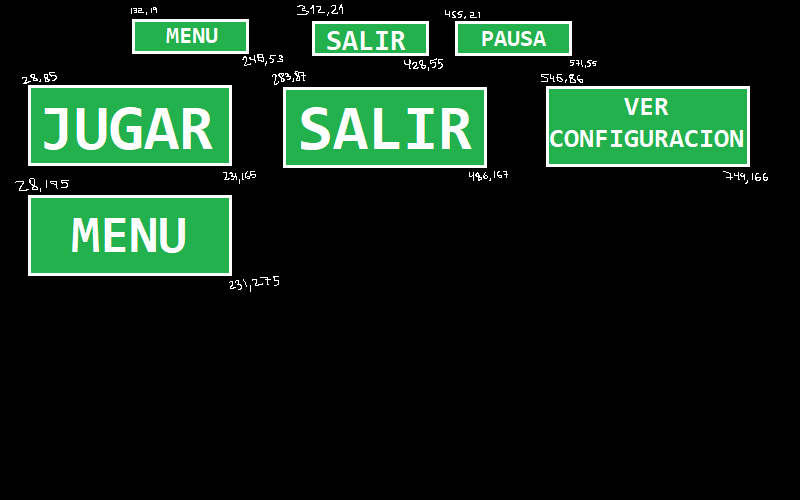
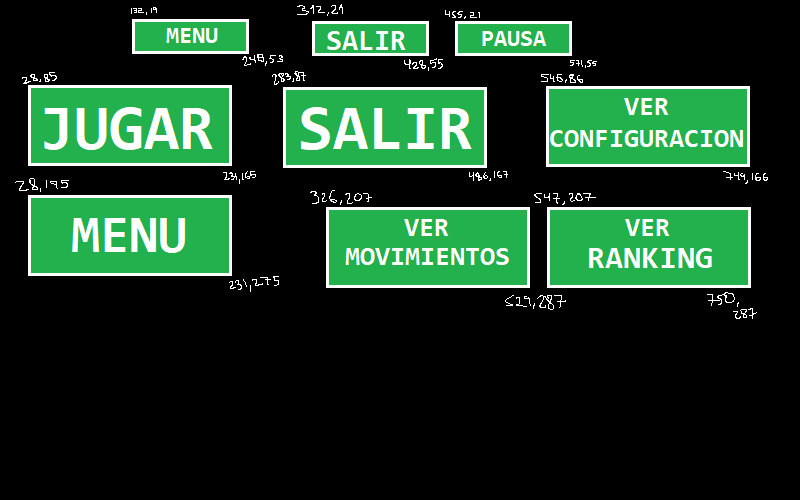
Visualizacion de vidas, puntuaciones, listado de movimientos, rankings y configs

Changed region(s): [[0.4062, 0.39, 0.9375, 0.63]]

diff --git a/Cliente/secciones/secciones.c b/Cliente/secciones/secciones.c
@@ -8,8 +8,17 @@ typedef struct {
     GHP_TexturesData* tex;
 } tCTex;
 
+typedef struct {
+    int ult_linea;
+    int regs_en_ult_linea;
+    GHP_TexturesData* tex;
+    SDL_Renderer* renderer;
+} ctxImpReg;
+
 bool buscarYCrearJugador (SOCKET sock, unsigned* id);
 bool _procesarNombre(tContextoGlobal* cGlobal);
+void _cargarTexsConfigs(tContextoGlobal* cGlobal, SDL_Renderer* renderer, GHP_TexturesData* tex);
+void _mostrarMovListaSDL(void* elemLista, void* infoExtra);
 
 void impRankCompleto(void* elem, void* extra) {
     RankingCompleto* ranking = (RankingCompleto*) elem;
@@ -29,7 +38,7 @@ void impRankCompleto(void* elem, void* extra) {
 
     ctx->cGlobal->cantRankings++;
 
-    printf("%d\n", ctx->cGlobal->salteoRankings);
+    //printf("%d\n", ctx->cGlobal->salteoRankings);
     printf("%d\t%s\t%d\n", ranking->idJugador, ranking->nombre, ranking->puntTotal);
 }
 
@@ -56,6 +65,7 @@ void initMenu (tContextoGlobal* cGlobal, SDL_Renderer* renderer, GHP_TexturesDat
     GHP_renderButton(renderer, &tex->buttons[BUT_JUGAR_GRANDE_A_NOMBRE], (WIDTH-(231-28))/2 , HEIGHT*0.2);
     GHP_renderButton(renderer, &tex->buttons[BUT_SALIR_GRANDE], (WIDTH-(231-28))/2 , HEIGHT*0.4);
     GHP_renderButton(renderer, &tex->buttons[BUT_VERCONFIG_GRANDE], (WIDTH-(231-28))/2 , HEIGHT*0.6);
+    GHP_renderButton(renderer, &tex->buttons[BUT_VERRANKING_GRANDE], (WIDTH-(231-28))/2 , HEIGHT*0.8);
 }
 
 void handlerMenu (tContextoGlobal* cGlobal, SDL_Renderer* renderer, GHP_TexturesData* tex, SDL_Event* event) {
@@ -362,6 +372,7 @@ void renderJuegoCorriendo (tContextoGlobal* cGlobal, SDL_Renderer* renderer, GHP
 
     if (!partida -> pausado) {
         system("cls");
+        GHP_renderBG(renderer,tex,WIDTH,HEIGHT);
 
         printf("=======================\n");
         printf("Vidas: %d\n", partida -> vidasRestantes);
@@ -374,8 +385,14 @@ void renderJuegoCorriendo (tContextoGlobal* cGlobal, SDL_Renderer* renderer, GHP
         mostrarMapa(&partida -> mapa);
         actualizarMapaRender(renderer, &partida->mapa, tex, tex->active_mesh);
 
-        // De vuelta porque sino queda como si estuviera pausado.
         GHP_renderButton(renderer, &tex->buttons[BUT_PAUSA_CHICO], WIDTH*0.41, HEIGHT*0.01);
+        GHP_renderButton(renderer, &tex->buttons[BUT_MENU_CHICO], WIDTH*0.21, HEIGHT*0.01);
+        GHP_renderButton(renderer, &tex->buttons[BUT_SALIR_CHICO], WIDTH*0.61, HEIGHT*0.01);
+
+        sprintf(tex->texts[TEXT_VIDAS].text, "Vidas: %d", cGlobal->partida.vidasRestantes);
+        sprintf(tex->texts[TEXT_PUNTUACION].text, "Puntuacion: %d", cGlobal->partida.puntuacion);
+        GHP_renderText(renderer, tex, TEXT_VIDAS, 20, WHITE_COLOR, 5, 5);
+        GHP_renderText(renderer, tex, TEXT_PUNTUACION, 20, WHITE_COLOR, 610, 5);
 
     } else {
         // agrisando el boton de pausa y el tablero
@@ -399,11 +416,12 @@ void initDerrota (tContextoGlobal* cGlobal, SDL_Renderer* renderer, GHP_Textures
 
     GHP_renderBG(renderer, tex, WIDTH, HEIGHT);
     GHP_renderButton(renderer, &tex->buttons[BUT_MENU_GRANDE], (WIDTH-(231-28))/2 , HEIGHT*0.2);
+    GHP_renderButton(renderer, &tex->buttons[BUT_VERMOVIMIENTOS_GRANDE], (WIDTH-(231-28))/2 , HEIGHT*0.4);
     // Mostrar registro de movmientos.
 }
 
 void handlerDerrota(tContextoGlobal* cGlobal, SDL_Renderer* renderer, GHP_TexturesData* tex, SDL_Event* event) {
-    GHP_Button botonesActivos[] = {tex->buttons[BUT_MENU_GRANDE]};
+    GHP_Button botonesActivos[] = {tex->buttons[BUT_MENU_GRANDE], tex->buttons[BUT_VERMOVIMIENTOS_GRANDE]};
 
     switch (event -> key.keysym.sym) {
         case SDLK_ESCAPE:
@@ -414,7 +432,10 @@ void handlerDerrota(tContextoGlobal* cGlobal, SDL_Renderer* renderer, GHP_Textur
             break;
     }
 
-    handleButtonsClick(botonesActivos, 1, &(cGlobal -> partida), &(cGlobal -> seccion), event);
+    handleButtonsClick(botonesActivos, 2, &(cGlobal -> partida), &(cGlobal -> seccion), event);
+
+    if (cGlobal->seccion != SECCION_DERROTA && cGlobal->seccion != SECCION_VERMOVS)
+        vaciarLista(&cGlobal->partida.regMovs);
 }
 
 void initVictoria (tContextoGlobal* cGlobal, SDL_Renderer* renderer, GHP_TexturesData* tex) {
@@ -430,11 +451,12 @@ void initVictoria (tContextoGlobal* cGlobal, SDL_Renderer* renderer, GHP_Texture
 
     GHP_renderBG(renderer, tex, WIDTH, HEIGHT);
     GHP_renderButton(renderer, &tex->buttons[BUT_MENU_GRANDE], (WIDTH-(231-28))/2 , HEIGHT*0.2);
+    GHP_renderButton(renderer, &tex->buttons[BUT_VERMOVIMIENTOS_GRANDE], (WIDTH-(231-28))/2 , HEIGHT*0.4);
     // Mostrar registro de movmientos.
 }
 
 void handlerVictoria(tContextoGlobal* cGlobal, SDL_Renderer* renderer, GHP_TexturesData* tex, SDL_Event* event) {
-    GHP_Button botonesActivos[] = {tex->buttons[BUT_MENU_GRANDE]};
+    GHP_Button botonesActivos[] = {tex->buttons[BUT_MENU_GRANDE], tex->buttons[BUT_VERMOVIMIENTOS_GRANDE]};
 
     switch (event -> key.keysym.sym) {
         case SDLK_ESCAPE:
@@ -445,7 +467,10 @@ void handlerVictoria(tContextoGlobal* cGlobal, SDL_Renderer* renderer, GHP_Textu
             break;
     }
 
-    handleButtonsClick(botonesActivos, 1, &(cGlobal -> partida), &(cGlobal -> seccion), event);
+    handleButtonsClick(botonesActivos, 2, &(cGlobal -> partida), &(cGlobal -> seccion), event);
+
+    if (cGlobal->seccion != SECCION_VICTORIA && cGlobal->seccion != SECCION_VERMOVS)
+        vaciarLista(&cGlobal->partida.regMovs);
 }
 
 void initVerRankings(tContextoGlobal* cGlobal, SDL_Renderer* renderer, GHP_TexturesData* tex) {
@@ -493,6 +518,9 @@ void initVerRankings(tContextoGlobal* cGlobal, SDL_Renderer* renderer, GHP_Textu
     for (int i = INICIO_TEXTOS_RANKINGS; i < LIMITE_RANKINGS + INICIO_TEXTOS_RANKINGS; i++) {
         GHP_updateTextTexture(renderer, tex, i, 30, BLACK_COLOR); // actualizar cada texture correctamente
     }
+
+    strcpy(tex->texts[TEXT_PRESIONEENTER].text,"[Presione enter para ver siguiente pagina]");
+    GHP_updateTextTexture(renderer, tex, TEXT_PRESIONEENTER, 30, WHITE_COLOR);
 }
 
 void handlerVerRankings(tContextoGlobal* cGlobal, SDL_Renderer* renderer, GHP_TexturesData* tex, SDL_Event* event) {
@@ -566,8 +594,15 @@ void renderVerRankings(tContextoGlobal* cGlobal, SDL_Renderer* renderer, GHP_Tex
     GHP_renderBG(renderer, tex, WIDTH, HEIGHT);
 
     for (int i = INICIO_TEXTOS_RANKINGS; i < LIMITE_RANKINGS + INICIO_TEXTOS_RANKINGS; i++) {
-        GHP_renderTexture(renderer, tex->texts[i].tex, 52, HEIGHT * (i - INICIO_TEXTOS_RANKINGS) * 0.1);
+        GHP_renderTexture(renderer, tex->texts[i].tex, 52, HEIGHT * (i - INICIO_TEXTOS_RANKINGS) * 0.1 + 52);
     }
+
+    if (strcmp(tex->texts[INICIO_TEXTOS_RANKINGS].text, "Fin del ranking") == 0) {
+        strcpy(tex->texts[TEXT_PRESIONEENTER].text,"[Presione enter para volver al menu]");
+        GHP_updateTextTexture(renderer, tex, TEXT_PRESIONEENTER, 30, WHITE_COLOR);
+    }
+
+    GHP_renderTexture(renderer, tex->texts[TEXT_PRESIONEENTER].tex, 52, HEIGHT - 75);
 }
 
 void initVerConfigs(tContextoGlobal* cGlobal, SDL_Renderer* renderer, GHP_TexturesData* tex) {
@@ -575,8 +610,14 @@ void initVerConfigs(tContextoGlobal* cGlobal, SDL_Renderer* renderer, GHP_Textur
     mostrarConfigs(&(cGlobal -> configData));
     printf("\nPresione enter para volver al menu...");
 
+    _cargarTexsConfigs(cGlobal, renderer, tex);
+
     GHP_renderBG(renderer, tex, WIDTH, HEIGHT);
-    GHP_renderButton(renderer, &tex->buttons[BUT_MENU_GRANDE], (WIDTH-(231-28))/2 , HEIGHT*0.2);
+    GHP_renderButton(renderer, &tex->buttons[BUT_MENU_GRANDE], (WIDTH-(231-28))/2 , HEIGHT*0.8);
+
+    for (int i=0; i<CANT_CONFIGS; i++) {
+        GHP_renderTexture(renderer, tex->texts[i].tex, 52, HEIGHT * (i - INICIO_TEXTOS_CONFIGS) * 0.1 + 20);
+    }
 }
 
 void handlerVerConfigs(tContextoGlobal* cGlobal, SDL_Renderer* renderer, GHP_TexturesData* tex, SDL_Event* event) {
@@ -588,7 +629,7 @@ void handlerVerConfigs(tContextoGlobal* cGlobal, SDL_Renderer* renderer, GHP_Tex
                 cGlobal -> seccion = SECCION_MENU;
                 break;
             case SDLK_ESCAPE:
-                cGlobal -> seccion = SECCION_SALIR_DIRECTO;
+                cGlobal -> seccion = SECCION_MENU;
                 break;
         }
     }
@@ -611,6 +652,39 @@ void handleButtonsClick(GHP_Button* botones, int cantidad, Partida* partida, int
     }
 }
 
+void initVerMovs(tContextoGlobal* cGlobal, SDL_Renderer* renderer, GHP_TexturesData* tex) {
+    ctxImpReg lineasImpresas = {0,0, tex, renderer};
+
+    for (int i=0; i<CANT_LINEAS_MOVS; i++)
+        tex->texts[i-INICIO_TEXTOS_MOVS].text[0] = '\0';
+
+    recorrerListaConInfoExtra(&cGlobal->partida.regMovs, _mostrarMovListaSDL, &lineasImpresas);
+
+    GHP_renderBG(renderer, tex, WIDTH, HEIGHT);
+    for (int i=0; i<CANT_LINEAS_MOVS; i++)
+        GHP_renderTexture(renderer, tex->texts[i].tex, 52, HEIGHT * 0.05 * (i - INICIO_TEXTOS_CONFIGS) + 10);
+
+    GHP_renderButton(renderer, &tex->buttons[BUT_MENU_GRANDE], (WIDTH-(231-28))/2 , HEIGHT*0.7);
+}
+
+void handlerVerMovs(tContextoGlobal* cGlobal, SDL_Renderer* renderer, GHP_TexturesData* tex, SDL_Event* event) {
+    GHP_Button botonesActivos[] = {tex->buttons[BUT_MENU_GRANDE]};
+
+    switch (event -> key.keysym.sym) {
+        case SDLK_ESCAPE:
+            cGlobal -> seccion = SECCION_MENU;
+            break;
+        case SDLK_RETURN:
+            cGlobal -> seccion = SECCION_MENU;
+            break;
+    }
+
+    handleButtonsClick(botonesActivos, 1, &(cGlobal -> partida), &(cGlobal -> seccion), event);
+
+    if (cGlobal->seccion != SECCION_VERMOVS)
+        vaciarLista(&cGlobal->partida.regMovs);
+}
+
 void _procesarFinPartida(Partida* partida, SOCKET socket, unsigned idJugador) {
 
     unsigned idPartida, cMovs = 0;
@@ -620,7 +694,6 @@ void _procesarFinPartida(Partida* partida, SOCKET socket, unsigned idJugador) {
 
     mostrarLista(&partida -> regMovs, mostrarCoordenada);
     reducirLista(&partida -> regMovs, contarMovs, &cMovs);
-    vaciarLista(&partida -> regMovs);
 
     // Una vez finaliza la partida, si puede, la guarda en el servidor.
     if (socket != INVALID_SOCKET) {
@@ -726,3 +799,35 @@ bool buscarYCrearJugador (SOCKET sock, unsigned* id) {
 
     return !err;
 }
+
+void _cargarTexsConfigs(tContextoGlobal* cGlobal, SDL_Renderer* renderer, GHP_TexturesData* tex) {
+    char configsNombres[CANT_CONFIGS][100] = {"filas", "columnas", "vidas_inicio", "maximo_numero_fantasmas", "maximo_numero_premios", "maximo_vidas_extra"};
+    float* configsValores[] = {&cGlobal->configData.filas, &cGlobal->configData.columnas, &cGlobal->configData.vidas_inicio,
+        &cGlobal->configData.maximo_numero_fantasmas, &cGlobal->configData.maximo_numero_premios, &cGlobal->configData.maximo_vidas_extra};
+    for (int i=0; i<CANT_CONFIGS; i++) {
+        sprintf(tex->texts[i - INICIO_TEXTOS_CONFIGS].text, "%s: %.0f", configsNombres[i], *(configsValores[i]));
+        GHP_updateTextTexture(renderer, tex, i, 30, BLACK_COLOR);
+    }
+}
+
+void _mostrarMovListaSDL(void* elemLista, void* infoExtra) {
+    ctxImpReg* info = (ctxImpReg*)infoExtra;
+    Coordenada* coord = (Coordenada*)elemLista;
+    char* texto;
+    char textoAAgregar[10] = "";
+
+    if (info->regs_en_ult_linea >= 10) {
+        if (info->ult_linea <= 10) {
+            info->ult_linea++;
+            info->regs_en_ult_linea=0;
+        }
+        else
+            return;
+    }
+    texto = info->tex->texts[info->ult_linea].text;
+    sprintf(textoAAgregar, "(%d,%d) ", coord->x, coord->y);
+    strcat(texto, textoAAgregar);
+    GHP_updateTextTexture(info->renderer, info->tex, info->ult_linea - INICIO_TEXTOS_MOVS, 20, BLACK_COLOR);
+    info->regs_en_ult_linea++;
+}
+

diff --git a/Cliente/inicios/inicios.c b/Cliente/inicios/inicios.c
@@ -71,6 +71,8 @@ int iniciarBotones(SDL_Renderer* renderer, GHP_TexturesData* texData) {
     GHP_newButtonAbs(renderer, RUTA_BOTONES, texData, &texData->buttons[BUT_VERCONFIG_GRANDE], 546, 86, 749, 166, setSeccionConfigs);
     GHP_newButtonAbs(renderer, RUTA_BOTONES, texData, &texData->buttons[BUT_MENU_GRANDE], 28, 195, 231, 275, setSeccionMenu);
     GHP_newButtonAbs(renderer, RUTA_BOTONES, texData, &texData->buttons[BUT_JUGAR_GRANDE_A_NOMBRE], 28, 85, 231, 165, setSeccionIngresoNombre);
+    GHP_newButtonAbs(renderer, RUTA_BOTONES, texData, &texData->buttons[BUT_VERRANKING_GRANDE], 547, 207, 750, 287, setSeccionVerRankings);
+    GHP_newButtonAbs(renderer, RUTA_BOTONES, texData, &texData->buttons[BUT_VERMOVIMIENTOS_GRANDE], 326, 207, 529, 287, setSeccionVerMovs);
 
     for(int i=0; i<AMMOUNT_BUTTONS; i++) {
         if (! (texData->buttons + i)->tex ) {
@@ -107,3 +109,5 @@ void setPausa(void* dataJuego, int* seccion) {((Partida*)dataJuego)->pausado = !
 void setSeccionJugar(void* dataJuego, int* seccion) {*seccion = SECCION_PARTIDA;}
 void setSeccionConfigs(void* dataJuego, int* seccion) {*seccion = SECCION_CONFIGS;}
 void setSeccionIngresoNombre(void* dataJuego, int* seccion) {*seccion = SECCION_INGRESO_NOMBRE;}
+void setSeccionVerRankings(void* dataJuego, int* seccion) {*seccion = SECCION_RANKINGS;}
+void setSeccionVerMovs(void* dataJuego, int* seccion) {*seccion = SECCION_VERMOVS;}

diff --git a/Cliente/constants.h b/Cliente/constants.h
@@ -72,10 +72,11 @@
 #define SECCION_VICTORIA 5
 #define SECCION_RANKINGS 6
 #define SECCION_CONFIGS 7
+#define SECCION_VERMOVS 8
 #define SECCION_SALIR_DIRECTO -1
 
 // Rankings
-#define LIMITE_RANKINGS 2
+#define LIMITE_RANKINGS 5
 
 // Texturas - General
 #define AMMOUNT_ASSETS 1
@@ -98,19 +99,25 @@
 #define BUT_VERCONFIG_GRANDE 5
 #define BUT_MENU_GRANDE 6
 #define BUT_JUGAR_GRANDE_A_NOMBRE 7
-#define AMMOUNT_BUTTONS 8
+#define BUT_VERRANKING_GRANDE 8
+#define BUT_VERMOVIMIENTOS_GRANDE 9
+#define AMMOUNT_BUTTONS 10
 // Texturas - Textos
-#define TEXT_ENTRADANOMBREJUGADOR 0
-#define TEXT_ERR_NOMBRE_JUGADOR 1
-
-#define INICIO_TEXTOS_RANKINGS 2
-
-// ranking tops quedan reservados numeros 1-20
-// rango de reserva?
-
-#define TEXT_RANKING_CABECERA 21
-#define TEXT_ENTRADANOMBREMENSAJE 22
-#define AMMOUNT_TEXTS 23
+// constantes 0-10 quedan reservadas para propositos generales
+#define TEXT_ENTRADANOMBREJUGADOR 11
+#define TEXT_ERR_NOMBRE_JUGADOR 12
+#define TEXT_RANKING_CABECERA 13
+#define TEXT_ENTRADANOMBREMENSAJE 14
+#define AMMOUNT_TEXTS 15
+// propositos generales renombrados para particulares
+#define INICIO_TEXTOS_RANKINGS 0
+#define TEXT_PRESIONEENTER LIMITE_RANKINGS
+#define INICIO_TEXTOS_CONFIGS 0
+#define CANT_CONFIGS 6
+#define INICIO_TEXTOS_MOVS 0
+#define CANT_LINEAS_MOVS 10
+#define TEXT_VIDAS 0
+#define TEXT_PUNTUACION 1
 
 // Valores de retorno
 #define NO_ESTABLECIDO -1

diff --git a/Cliente/secciones/secciones.h b/Cliente/secciones/secciones.h
@@ -59,6 +59,9 @@ void renderVerRankings(tContextoGlobal* cGlobal, SDL_Renderer* renderer, GHP_Tex
 void initVerConfigs(tContextoGlobal* cGlobal, SDL_Renderer* renderer, GHP_TexturesData* tex);
 void handlerVerConfigs(tContextoGlobal* cGlobal, SDL_Renderer* renderer, GHP_TexturesData* tex, SDL_Event* event);
 
+void initVerMovs(tContextoGlobal* cGlobal, SDL_Renderer* renderer, GHP_TexturesData* tex);
+void handlerVerMovs(tContextoGlobal* cGlobal, SDL_Renderer* renderer, GHP_TexturesData* tex, SDL_Event* event);
+
 // otros
 void handleButtonsClick(GHP_Button* botones, int cantidad, Partida* partida, int* seccion, SDL_Event* event);
 void dibujarRectanguloParaEntrada(SDL_Renderer* renderer);

diff --git a/libs/Lista/Lista.c b/libs/Lista/Lista.c
@@ -181,6 +181,13 @@ void recorrerLista(const tLista* pl, Acc acc) {
     }
 }
 
+void recorrerListaConInfoExtra(const tLista* pl, Acc acc, void* infoExtra) {
+    while (*pl) {
+        acc((*pl) -> info, infoExtra);
+        pl = &((*pl) -> sig);
+    }
+}
+
 void reducirLista(const tLista* pl, Acc acc, void* dst) {
     while (*pl) {
         acc((*pl) -> info, dst);
@@ -245,7 +252,7 @@ void ordenamientoSeleccion(tLista* pl, Cmp cmp) {
         while (*q) {
             if (cmp((*q) -> info, (*min) -> info) < 0)
                 min = q;
-            
+
             q = &((*q) -> sig);
         }
 

diff --git a/libs/Lista/Lista.h b/libs/Lista/Lista.h
@@ -19,6 +19,7 @@ void ordenarLista(tLista* pl, Cmp cmp, int metodo);
 int buscarEnLista(tLista* pl, const void* info, Cmp cmp);
 void vaciarLista(tLista* pl);
 void recorrerLista(const tLista* pl, Acc acc);
+void recorrerListaConInfoExtra(const tLista* pl, Acc acc, void* infoExtra);
 void reducirLista(const tLista* pl, Acc acc, void* dst);
 void mostrarLista(const tLista* pl, Imp imp);
 bool listaVacia(const tLista* pl);

diff --git a/Cliente/inicios/inicios.h b/Cliente/inicios/inicios.h
@@ -17,5 +17,7 @@ void setPausa(void* dataJuego, int* seccion);
 void setSeccionJugar(void* dataJuego, int* seccion);
 void setSeccionConfigs(void* dataJuego, int* seccion);
 void setSeccionIngresoNombre(void* dataJuego, int* seccion);
+void setSeccionVerRankings(void* dataJuego, int* seccion);
+void setSeccionVerMovs(void* dataJuego, int* seccion);
 
 #endif // INIT_H_INCLUDED

diff --git a/Cliente/main.c b/Cliente/main.c
@@ -59,6 +59,7 @@ void react(SDL_Renderer* renderer, void* partidaData, GHP_TexturesData* TexData)
         {initVictoria, handlerVictoria, NULL},
         {initVerRankings, handlerVerRankings, renderVerRankings},
         {initVerConfigs, handlerVerConfigs, NULL},
+        {initVerMovs, handlerVerMovs, NULL}
     };
 
     // Relacionadas al control de frames.
